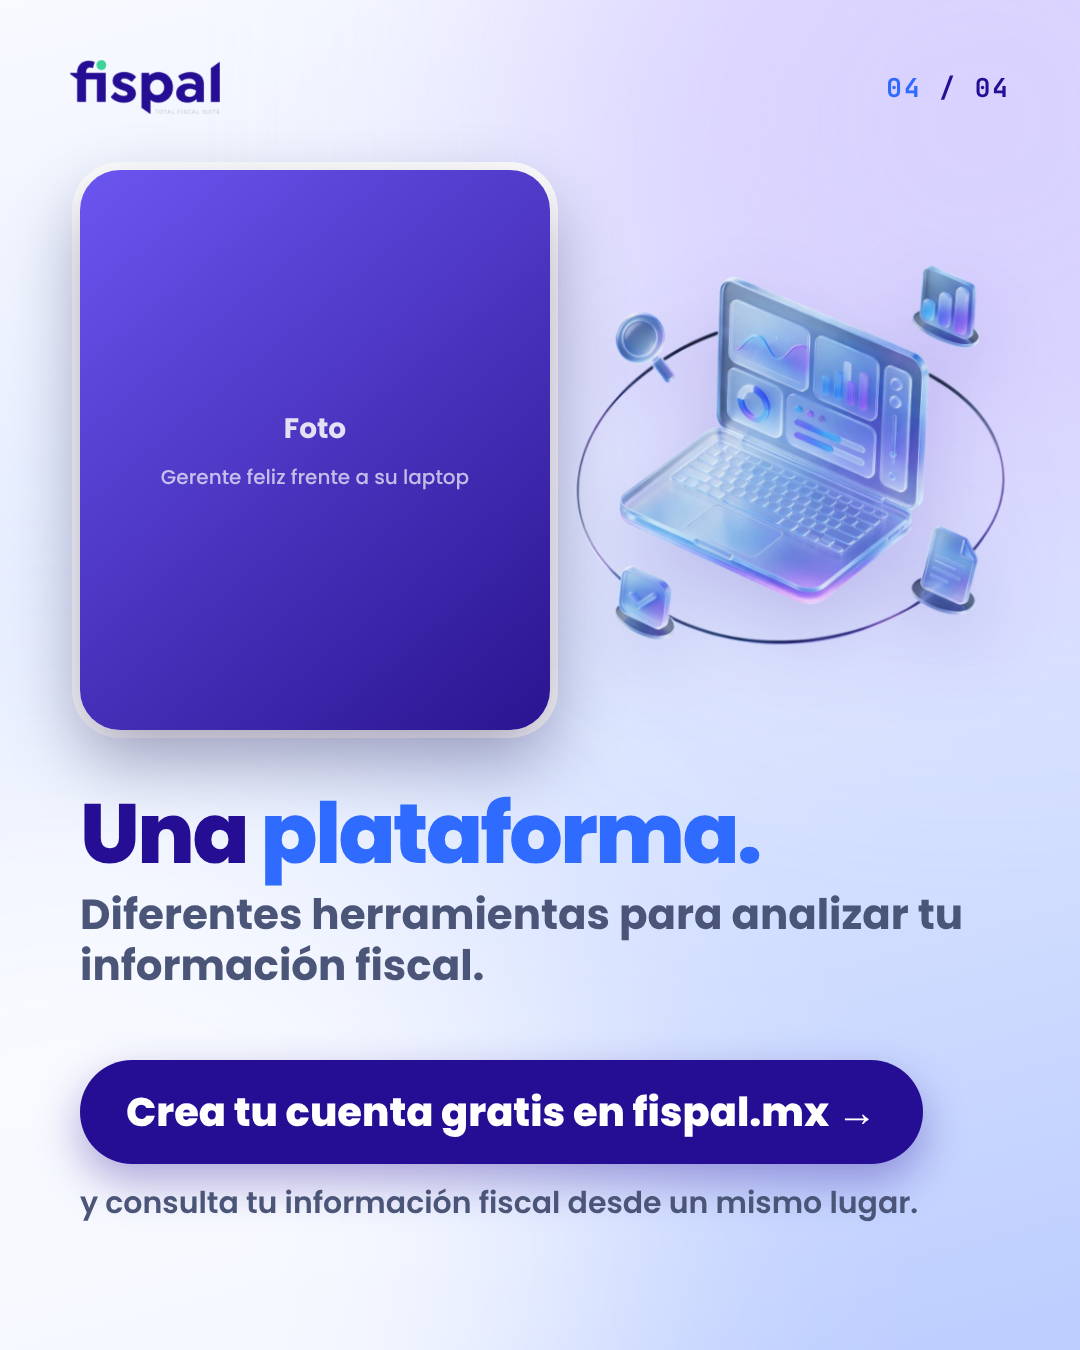
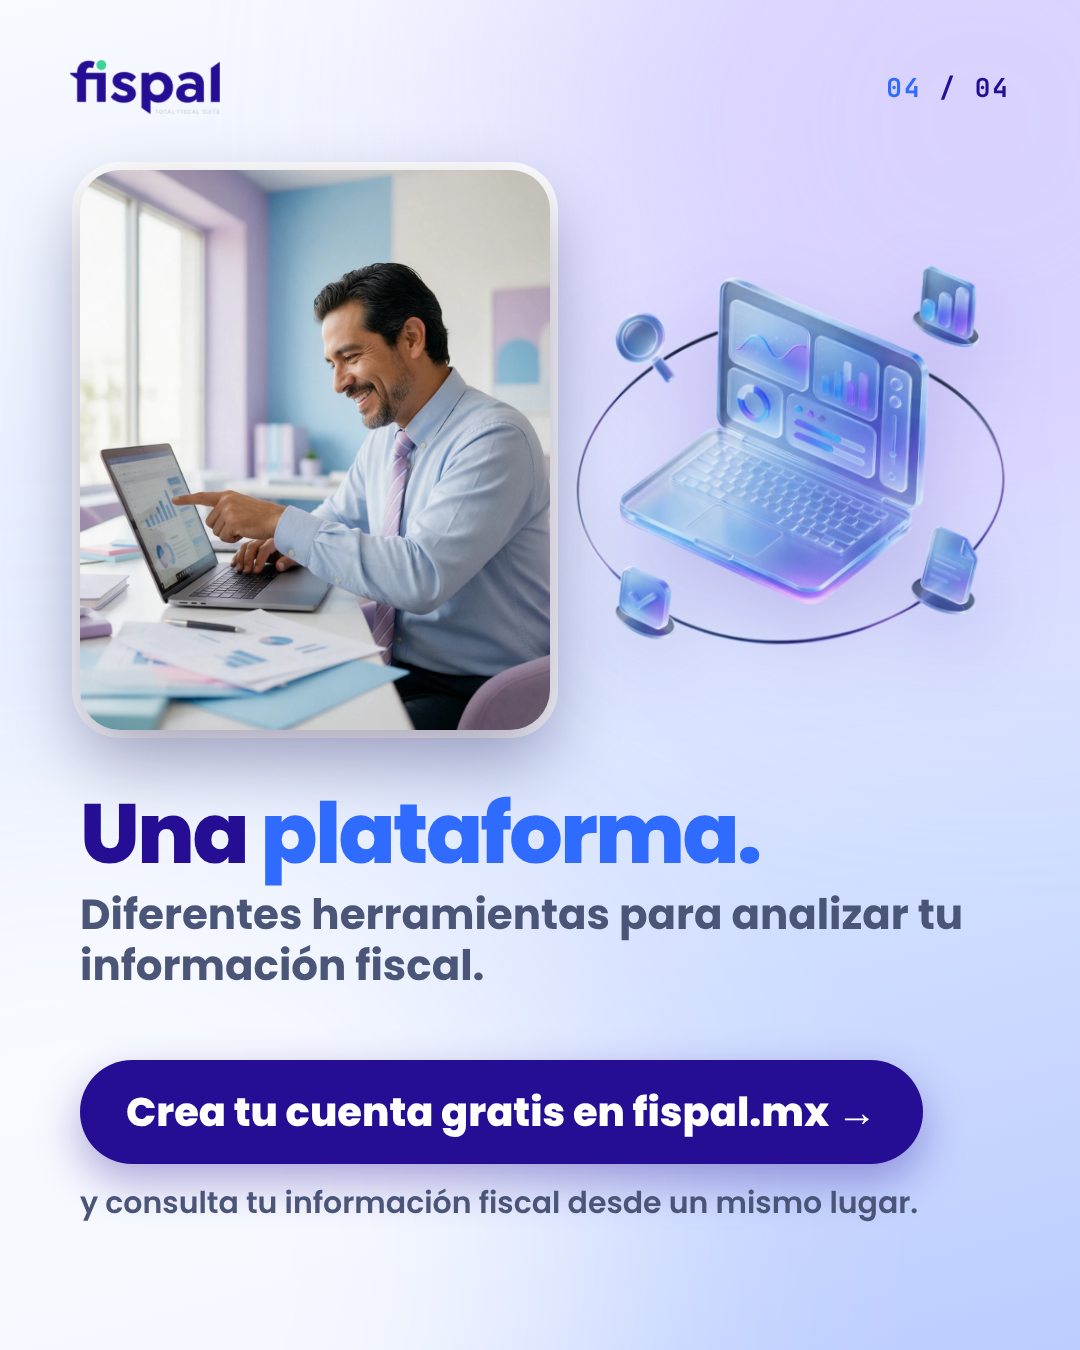
Fispal carrusel 5: fotos finales
Claude-Session: https://claude.ai/code/session_01NghCctPQaKXziVeL1FGG6n

Changed region(s): [[0.0611, 0.1244, 0.5194, 0.56]]

diff --git a/editor/src/carruseles/C5Buscar.tsx b/editor/src/carruseles/C5Buscar.tsx
@@ -41,7 +41,7 @@ const Chip: React.FC<{ children: React.ReactNode; style?: React.CSSProperties }>
 /* 1 — portada: photo banner with the calendar on its corner, question below */
 const S1: React.FC = () => (
   <Frame t={t} i={0} n={N} ribbon={false}>
-    <Photo name="c5-busca" hint="Contadora buscando entre carpetas" position="50% 35%" radius={40} style={{ left: L, right: L, top: 170, height: 560 }} />
+    <Photo name="c5-busca" hint="Contadora buscando entre carpetas" position="50% 45%" radius={40} style={{ left: L, right: L, top: 170, height: 560 }} />
     <Chip style={{ left: L + 30, top: 200 }}>
       <Icon d={ICX.clock} size={30} color={CORAL} />
       <span style={{ fontFamily: MONO, color: CORAL }}>00:47:12</span>
@@ -128,7 +128,7 @@ const S3: React.FC = () => (
 /* 4 — CTA: photo + laptop on top, statement and button below */
 const S4: React.FC = () => (
   <Frame t={t} i={3} n={N} last ribbon={false}>
-    <Photo name="c5-encontrado" hint="Gerente feliz frente a su laptop" position="50% 35%" radius={40} style={{ left: L, width: 470, top: 170, height: 560 }} ring="#fff" />
+    <Photo name="c5-encontrado" hint="Gerente feliz frente a su laptop" position="60% 50%" radius={40} style={{ left: L, width: 470, top: 170, height: 560 }} ring="#fff" />
     <Glass3D name="plataforma" x={790} y={450} size={430} />
     <div style={{ position: "absolute", left: L, right: L, top: 790 }}>
       <Title t={t} size={84} parts={["Una ", { hl: "plataforma." }]} />
